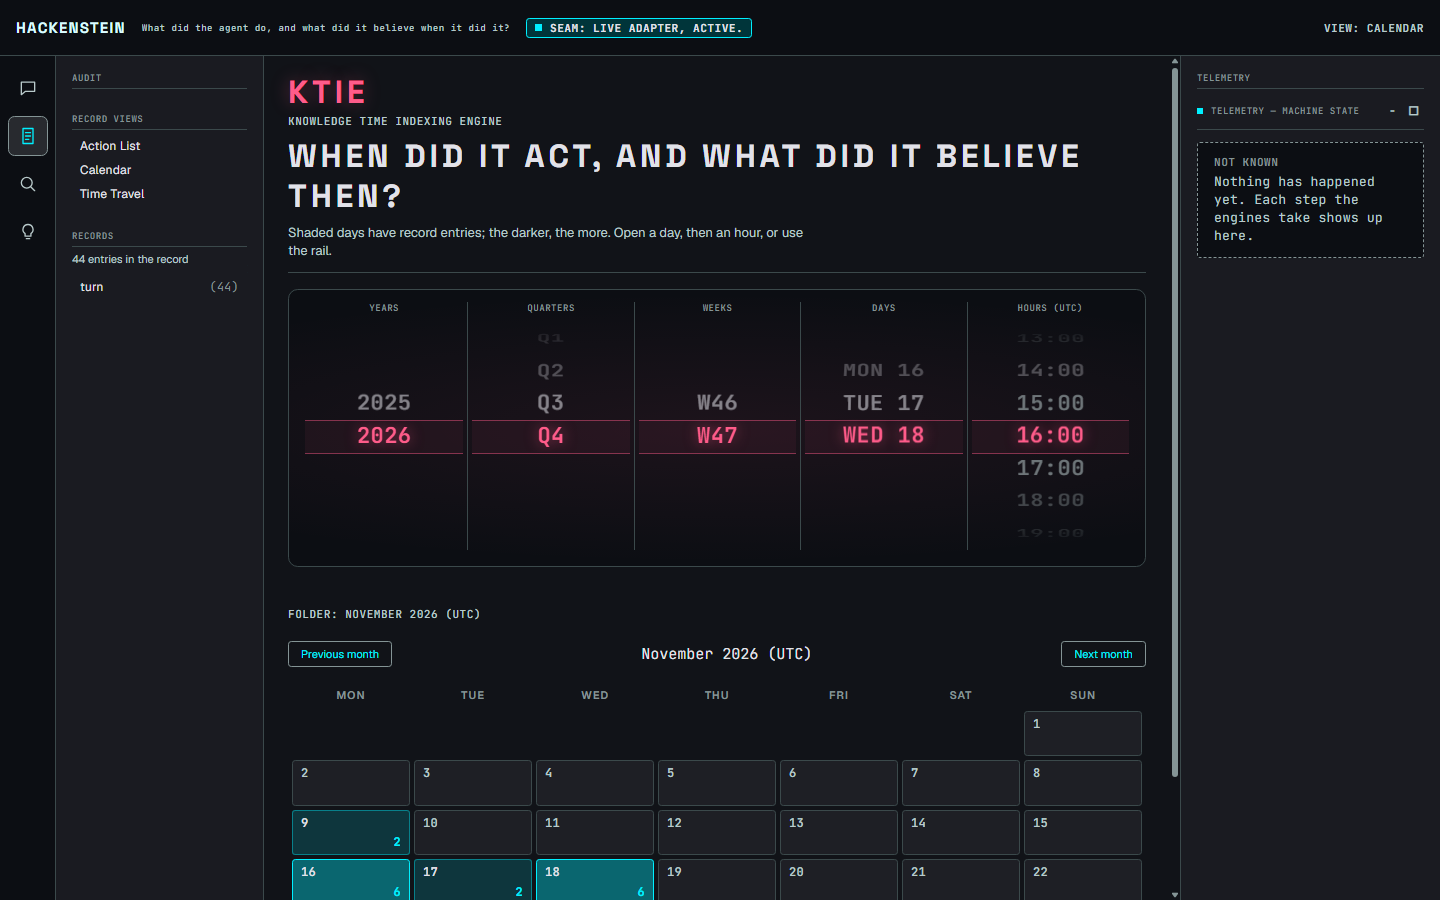
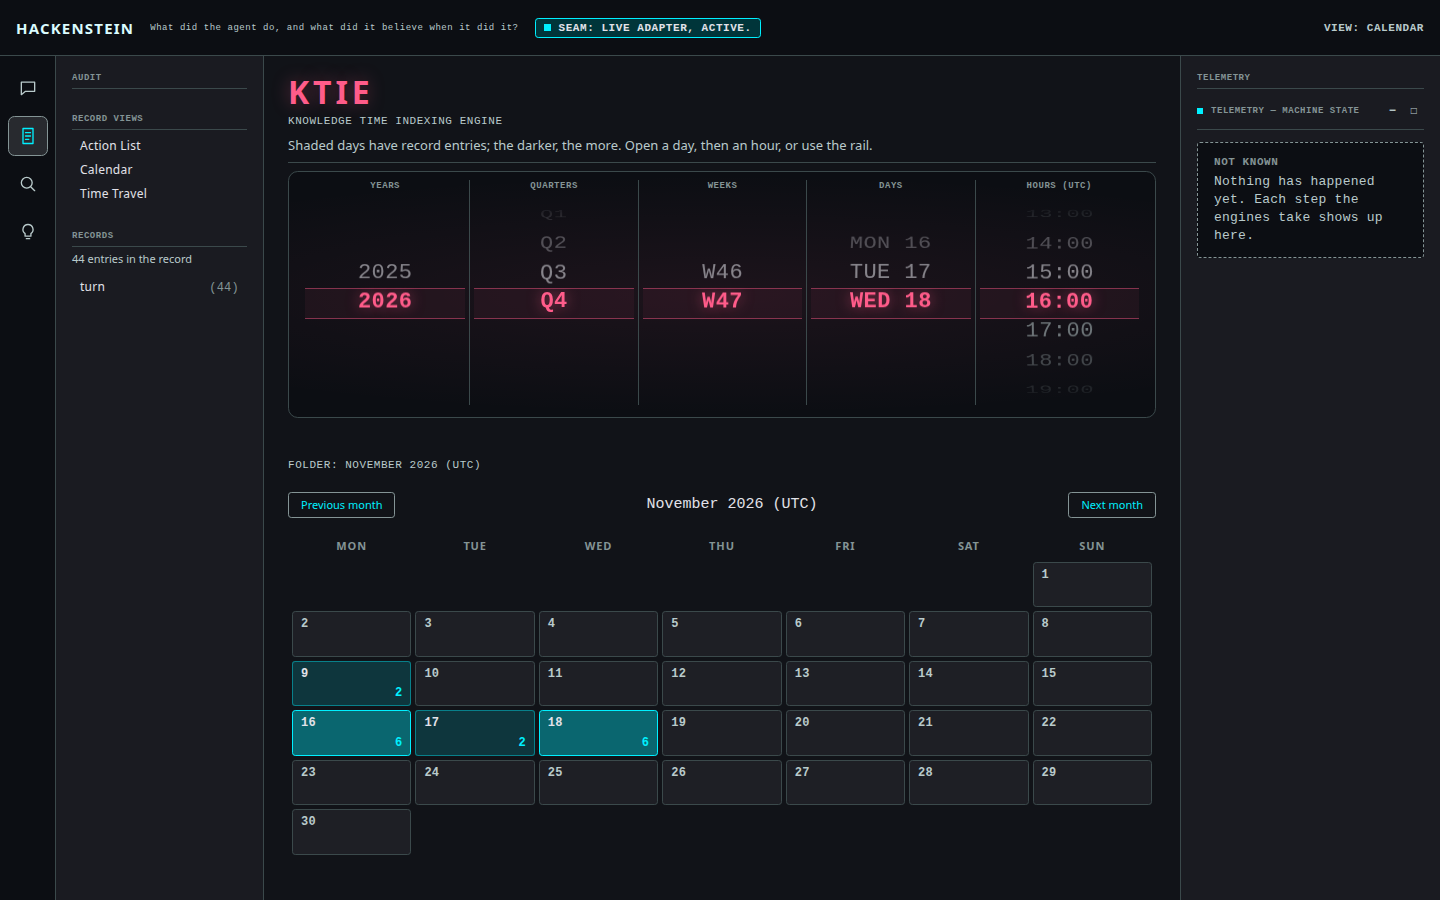
KATIE page shots retaken: no question headline, helper on one line, page fits

diff --git a/katie-page.html b/katie-page.html
@@ -59,7 +59,7 @@
   <figure>
     <a href="katie-page/01-audit-lands-on-the-drums.png"><img src="katie-page/01-audit-lands-on-the-drums.png" alt="Audit lands on the drums"></a>
     <figcaption><h2>01 — AUDIT LANDS ON THE DRUMS</h2>
-    <p>Tapping Audit opens the KTIE page. Rose KTIE header, five drums (2026 / Q4 / W47 / WED 18 / 16:00 centered), and the folder underneath is the November 2026 month grid.</p></figcaption>
+    <p>Tapping Audit opens the KTIE page. Rose KTIE header, the helper line alone on one line, five drums (2026 / Q4 / W47 / WED 18 / 16:00 centered), and the folder underneath is the November 2026 month grid — the whole grid fits without scrolling.</p></figcaption>
   </figure>
   <figure>
     <a href="katie-page/02-header.png"><img src="katie-page/02-header.png" alt="The KTIE header"></a>
@@ -108,9 +108,10 @@
   </figure>
 </main>
 <footer>
-  <p>Branch <code>feat/katie-page</code> @ <code>416921b</code> (434 tests pass).
-  Verified independently; not merged. The intro still says "or use the rail" —
-  the order kept the intro as it is. <a href="index.html">&larr; Back to the UI restart shots</a></p>
+  <p>Branch <code>feat/katie-page</code> @ <code>d979284</code> (434 tests pass).
+  Verified independently; not merged. The question sentence is gone — the helper
+  line alone, on one line — and the page fits without scrolling. A different
+  title comes later. <a href="index.html">&larr; Back to the UI restart shots</a></p>
 </footer>
 </body>
 </html>
